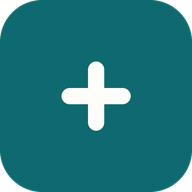
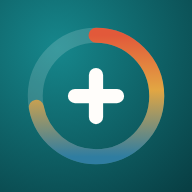
Nuevo icono de la app (aro de emoción, versión oscura)
Claude-Session: https://claude.ai/code/session_01Bxfg2H5tRX54fjjvDw6BKW

diff --git a/sw.js b/sw.js
@@ -1,8 +1,8 @@
 /* App instalable: guarda la parte fija de la web para que abra rápido.
    La página se pide siempre a la red primero (para recibir cambios al momento);
    las llamadas a Supabase, la IA y la voz nunca se guardan. */
-const CACHE = "empatia-v1";
-const SHELL = ["./", "./index.html", "./vendor/supabase.js", "./manifest.webmanifest", "./icons/icon-192.png", "./icons/icon-512.png"];
+const CACHE = "empatia-v2";
+const SHELL = ["./", "./index.html", "./vendor/supabase.js", "./manifest.webmanifest", "./icons/icon-192.png", "./icons/icon-512.png", "./icons/apple-touch-icon.png"];
 self.addEventListener("install", e => { e.waitUntil(caches.open(CACHE).then(c => c.addAll(SHELL)).then(() => self.skipWaiting())); });
 self.addEventListener("activate", e => { e.waitUntil(caches.keys().then(ks => Promise.all(ks.filter(k => k !== CACHE).map(k => caches.delete(k)))).then(() => self.clients.claim())); });
 self.addEventListener("fetch", e => {
